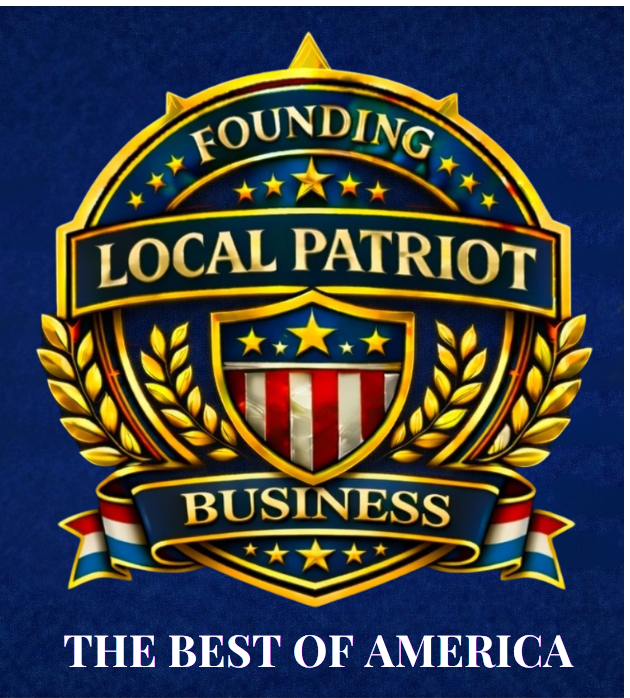
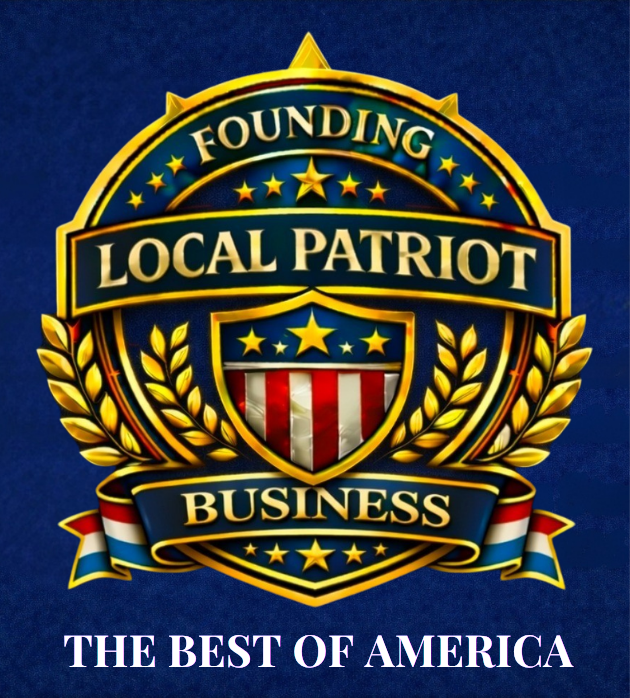
Add files via upload

Changed region(s): [[0.0, 0.0, 1.0, 1.0]]

diff --git a/apply-patriot-business.html b/apply-patriot-business.html
@@ -251,7 +251,7 @@ footer{padding:60px 48px 40px;background:var(--deep-navy);border-top:1px solid r
       <!-- Digital Seal -->
       <div style="text-align:center;">
         <div style="border:1px solid rgba(201,168,76,0.25); background:rgba(10,22,40,0.6); padding:8px; margin-bottom:20px; position:relative;">
-          <img src="FLPBSeal_WithURL.png" alt="Founding Local Patriot Business Digital Seal" style="width:100%; display:block; background:white;"/>
+          <img src="FLPBSeal_WithURL.png" alt="Founding Local Patriot Business Digital Seal" style="width:100%; display:block;"/>
           <div style="position:absolute; top:12px; right:12px; background:var(--crimson); font-family:'Oswald',sans-serif; font-size:10px; letter-spacing:0.2em; text-transform:uppercase; color:white; padding:4px 10px;">Digital</div>
         </div>
         <div style="font-family:'Oswald',sans-serif; font-size:11px; letter-spacing:0.3em; text-transform:uppercase; color:var(--gold); margin-bottom:8px;">Digital Seal</div>

diff --git a/flpb-recognition-package.html b/flpb-recognition-package.html
@@ -218,8 +218,8 @@ footer{padding:60px 48px 40px;background:var(--deep-navy);border-top:1px solid r
 
   <!-- Digital Seal -->
   <div class="package-item">
-    <div class="item-image" style="background:white; padding:24px;">
-      <img src="FLPBSeal_WithURL.png" alt="Founding Local Patriot Business Digital Seal" style="border:none;"/>
+    <div class="item-image">
+      <img src="FLPBSeal_WithURL.png" alt="Founding Local Patriot Business Digital Seal"/>
     </div>
     <div class="item-content">
       <div class="item-number">03</div>
